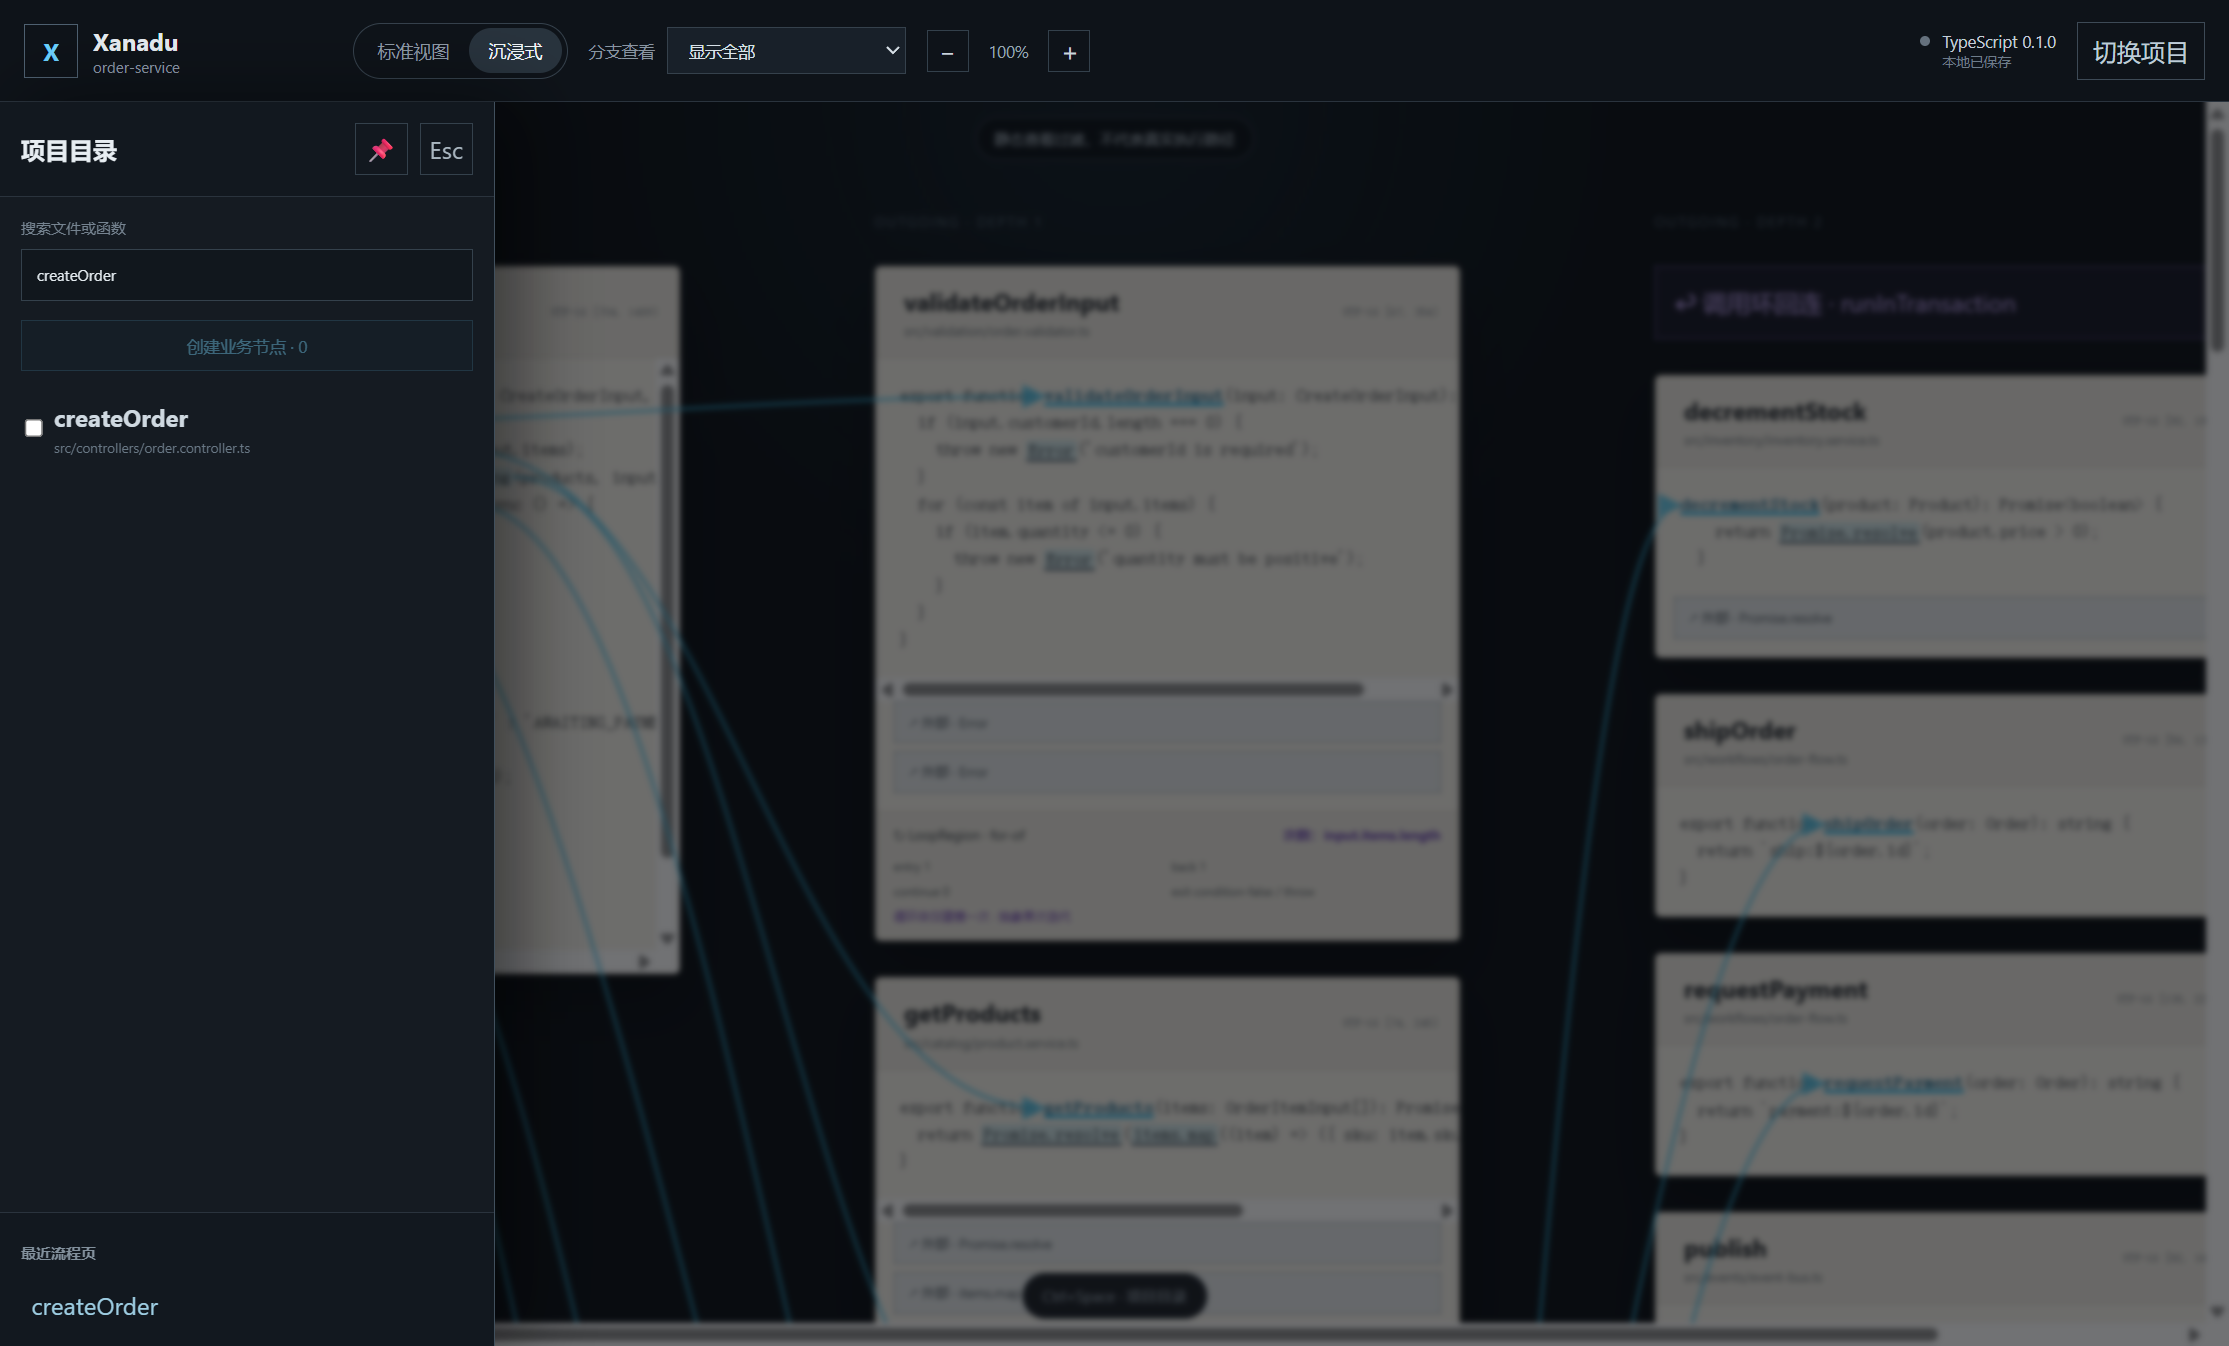
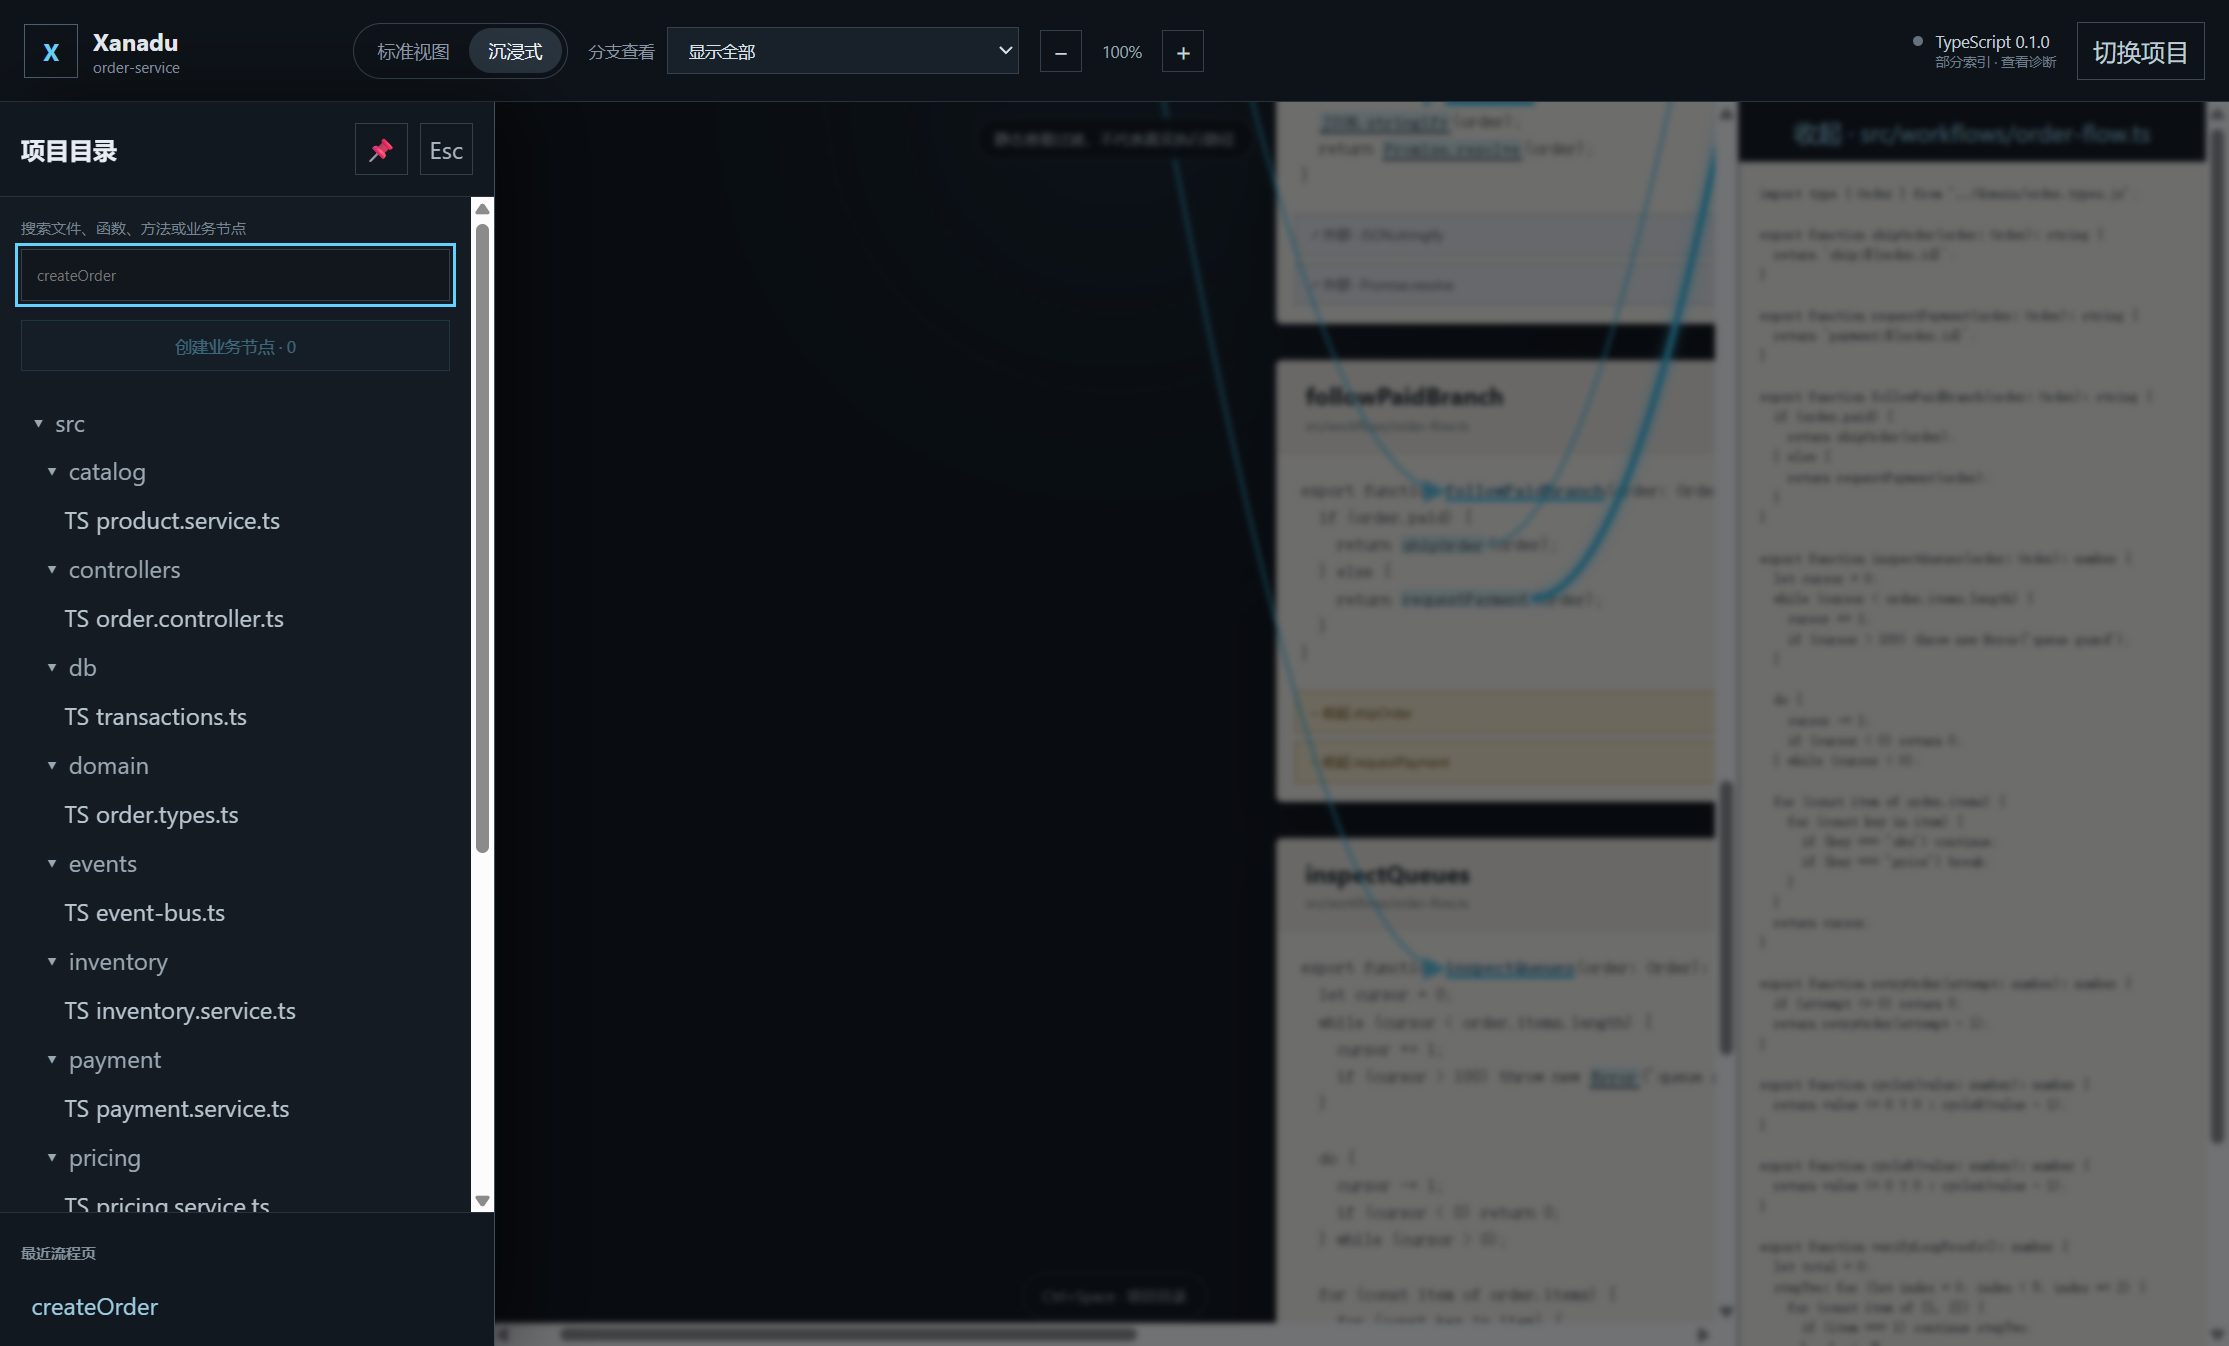
docs: align MVP evidence with review fixes

diff --git a/README.md b/README.md
@@ -41,7 +41,7 @@ npm run test:e2e
 npm run license:check
 ```
 
-- `npm test` 覆盖领域模型、adapter contract、TypeScript Program/TypeChecker、精确范围、解析状态、outgoing-only、分支、五类循环、递归/调用环、桥梁几何、BusinessNode、持久化和主要组件交互。
+- `npm test` 覆盖领域模型、完整 IPC DTO/路径负例、adapter contract、受控 ParseConfigHost/CompilerHost、TypeScript Program/TypeChecker、精确范围、解析状态、显式逐层 outgoing-only、分支后续/合流、五类循环及归纳证明、递归/调用环、桥梁空闲性能与 probable 状态、BusinessNode FlowPage、generation 持久化和主要组件交互。
 - `npm run test:e2e` 需要先执行 `npm run build`。它启动真实 Electron 应用，走完 fixture 授权、utility 索引、FlowPage、来源往返、分支、循环折叠、BusinessNode、沉浸抽屉和重启恢复。
 - `npm run license:check` 审核 lockfile 中每个包的许可证字段；新许可证必须显式评审后才能进入 allowlist。
 
@@ -59,13 +59,13 @@ npm run start
 建议验收顺序：
 
 1. 选择 `order-service`，确认 TypeScript manifest、Compiler 版本、能力和 degraded/healthy 状态可见；fixture 的故意语法错误会产生可恢复诊断。
-2. 搜索并打开 `createOrder`。标准视图以源码卡为主体，只沿出站调用展开，未加入 `unrelatedInboundCaller`。
+2. 在目录树或统一搜索中打开 `createOrder`。初始 FlowPage 只显示入口和可发现引用；点击“展开”按 RelationId 逐层加入目标，且不会加入 `unrelatedInboundCaller`。
 3. 点击调用范围或桥梁查看 resolved/ambiguous/unresolved/external 状态与 TypeChecker 证据。
 4. 点击函数标题进入原文件精确范围，再返回 FlowPage。
 5. 在“分支查看”选择 A 或 B；另一支变暗、显示隐藏数量，页面明确说明这不是实际运行路径。
 6. 展开/折叠 LoopRegion，检查 for/while/do-while/for-of/for-in、entry/back/exit、break/continue/return/throw 和三类静态次数文案。
-7. 多选 `createOrder`、`validateOrderInput`、`reserveInventory`、`saveOrder`，创建“创建订单” BusinessNode。
-8. 切换沉浸式视图，用 Ctrl+Space 打开覆盖画布的目录抽屉、Esc 关闭、图钉返回标准常驻目录。
+7. 多选 `createOrder`、`validateOrderInput`、`reserveInventory`、`saveOrder`，创建并打开“创建订单” BusinessNode FlowPage，核对节点定义来源和每个成员的文件/range。
+8. 切换沉浸式视图，核对中央组合流程和两侧可折叠原始来源长页；用 Ctrl+Space 打开覆盖画布的目录抽屉、Esc 关闭、图钉返回标准常驻目录。
 9. 关闭并重新启动应用，重新选择同一项目，确认 mode、viewport、分支、循环折叠和 BusinessNode 恢复。
 
 ## 实际运行截图
@@ -94,6 +94,7 @@ npm run start
 ## MVP 范围限制
 
 - 首版只加载随应用发布的 TypeScript adapter；任意第三方规则包安装、签名和权限模型属于后续阶段。
+- 当前 TypeScript adapter 诚实声明 `incrementalUpdate=false`；变更触发受控全量重建。取消会终止 utility process，partial/cancelled 不会保存为成功索引缓存。
 - 持久化采用 `StoragePort` 后的原子 JSON 实现；SQLite driver 仍需单独完成 Electron ABI/打包验证。
 - 静态分析不能声称某次真实运行经过了哪条分支或循环了多少次；真实追踪属于未来运行阶段。
 - 项目自身尚未选择开源许可证。分发源码或安装包前，仓库所有者必须确定项目许可证并完成第三方 notices 审阅。

diff --git a/docs/requirements-mapping.md b/docs/requirements-mapping.md
@@ -1,6 +1,6 @@
 # 需求映射与领域追踪
 
-状态：提议
+状态：MVP 0.1 实现追踪（PR #16）
 
 依据：产品需求文档 v0.1（2026-08-31）、MVP 0.1 Milestone、Issues #1-#14
 
@@ -56,7 +56,7 @@
 | NFR-002 | 新语言不修改核心页面模型 | `model`/`adapter-api` 无具体编译器类型；测试 adapter 运行同一 contract suite | [#1](https://github.com/ljh2014137576-dev/xanadu-code-flow-browser/issues/1)、[#2](https://github.com/ljh2014137576-dev/xanadu-code-flow-browser/issues/2)、[#5](https://github.com/ljh2014137576-dev/xanadu-code-flow-browser/issues/5) |
 | NFR-003 | 每条关系可追溯到规则包、位置和解析结果 | `RelationBridge.evidence`、call-site/target revision、adapter provenance；来源 inspector | [#1](https://github.com/ljh2014137576-dev/xanadu-code-flow-browser/issues/1)、[#2](https://github.com/ljh2014137576-dev/xanadu-code-flow-browser/issues/2)、[#5](https://github.com/ljh2014137576-dev/xanadu-code-flow-browser/issues/5)、[#6](https://github.com/ljh2014137576-dev/xanadu-code-flow-browser/issues/6) |
 | NFR-004 | 渐进响应、进度、取消、部分可浏览 | batch commit、task event、cancellation token、partial snapshot；集成测试取消与迟到响应 | [#4](https://github.com/ljh2014137576-dev/xanadu-code-flow-browser/issues/4)、[#3](https://github.com/ljh2014137576-dev/xanadu-code-flow-browser/issues/3) |
-| NFR-005 | 文件变化只重建受影响关系 | file fingerprint、dependency invalidation、adapter incremental session、stale revision | [#4](https://github.com/ljh2014137576-dev/xanadu-code-flow-browser/issues/4)、[#5](https://github.com/ljh2014137576-dev/xanadu-code-flow-browser/issues/5) |
+| NFR-005 | 文件变化只重建受影响关系 | 目标架构仍为 file fingerprint、dependency invalidation 与 incremental session；MVP adapter 当前诚实声明 `incrementalUpdate=false`，使用受控全量重建，不把它伪装为增量。后续启用前必须补依赖失效测试 | [#4](https://github.com/ljh2014137576-dev/xanadu-code-flow-browser/issues/4)、[#5](https://github.com/ljh2014137576-dev/xanadu-code-flow-browser/issues/5) |
 | NFR-006 | 单文件/规则包失败不破坏全部索引 | utility process、文件级事务、last-good snapshot、structured diagnostics、contract failure tests | [#2](https://github.com/ljh2014137576-dev/xanadu-code-flow-browser/issues/2)、[#4](https://github.com/ljh2014137576-dev/xanadu-code-flow-browser/issues/4)、[#5](https://github.com/ljh2014137576-dev/xanadu-code-flow-browser/issues/5) |
 | NFR-007 | 核心操作支持键盘 | command registry、可见 focus、drawer focus trap、桥梁/来源详情的键盘等价操作 | [#7](https://github.com/ljh2014137576-dev/xanadu-code-flow-browser/issues/7)、[#10](https://github.com/ljh2014137576-dev/xanadu-code-flow-browser/issues/10)、[#11](https://github.com/ljh2014137576-dev/xanadu-code-flow-browser/issues/11) |
 | NFR-008 | 颜色不是唯一关系编码 | resolution 对应标签、线型、端点和文本；高对比/无颜色组件测试 | [#6](https://github.com/ljh2014137576-dev/xanadu-code-flow-browser/issues/6)、[#7](https://github.com/ljh2014137576-dev/xanadu-code-flow-browser/issues/7)、[#9](https://github.com/ljh2014137576-dev/xanadu-code-flow-browser/issues/9)、[#11](https://github.com/ljh2014137576-dev/xanadu-code-flow-browser/issues/11) |

diff --git a/docs/adr/0002-language-adapter-contract.md b/docs/adr/0002-language-adapter-contract.md
@@ -1,6 +1,6 @@
 # ADR-0002：LanguageAdapter 合同与插件边界
 
-- 状态：提议
+- 状态：已接受（分析 PR #15）
 - 日期：2026-09-01
 - 关联：[Issue #1](https://github.com/ljh2014137576-dev/xanadu-code-flow-browser/issues/1)、[#2](https://github.com/ljh2014137576-dev/xanadu-code-flow-browser/issues/2)、[#4](https://github.com/ljh2014137576-dev/xanadu-code-flow-browser/issues/4)、[#5](https://github.com/ljh2014137576-dev/xanadu-code-flow-browser/issues/5)、[#13](https://github.com/ljh2014137576-dev/xanadu-code-flow-browser/issues/13)
 
@@ -177,6 +177,8 @@ type RelocationResult =
 上层显式更新 FlowPage/BusinessNode 引用并保留 migration log；不得仅按行号自动重连。
 
 ## TypeScript adapter 的正式解析策略
+
+MVP 0.1 实现说明：当前内置 adapter 对 `incrementalUpdate` 诚实声明为 `false`。文件变更会启动新的、受授权边界约束的全量 Program；取消由 main 直接终止 utility process，并传播 `cancelled`，partial 结果不写成成功缓存。未来引入持久 incremental builder/language-service session 时必须先把 capability 改为 `true` 并补增量失效测试。
 
 ### 版本
 

diff --git a/docs/adr/0003-flow-rendering-model.md b/docs/adr/0003-flow-rendering-model.md
@@ -1,6 +1,6 @@
 # ADR-0003：流程页与来源桥梁渲染模型
 
-- 状态：提议
+- 状态：已接受（分析 PR #15）
 - 日期：2026-09-01
 - 关联：[Issue #6](https://github.com/ljh2014137576-dev/xanadu-code-flow-browser/issues/6)、[#7](https://github.com/ljh2014137576-dev/xanadu-code-flow-browser/issues/7)、[#8](https://github.com/ljh2014137576-dev/xanadu-code-flow-browser/issues/8)、[#9](https://github.com/ljh2014137576-dev/xanadu-code-flow-browser/issues/9)、[#10](https://github.com/ljh2014137576-dev/xanadu-code-flow-browser/issues/10)、[#11](https://github.com/ljh2014137576-dev/xanadu-code-flow-browser/issues/11)、[#13](https://github.com/ljh2014137576-dev/xanadu-code-flow-browser/issues/13)
 
